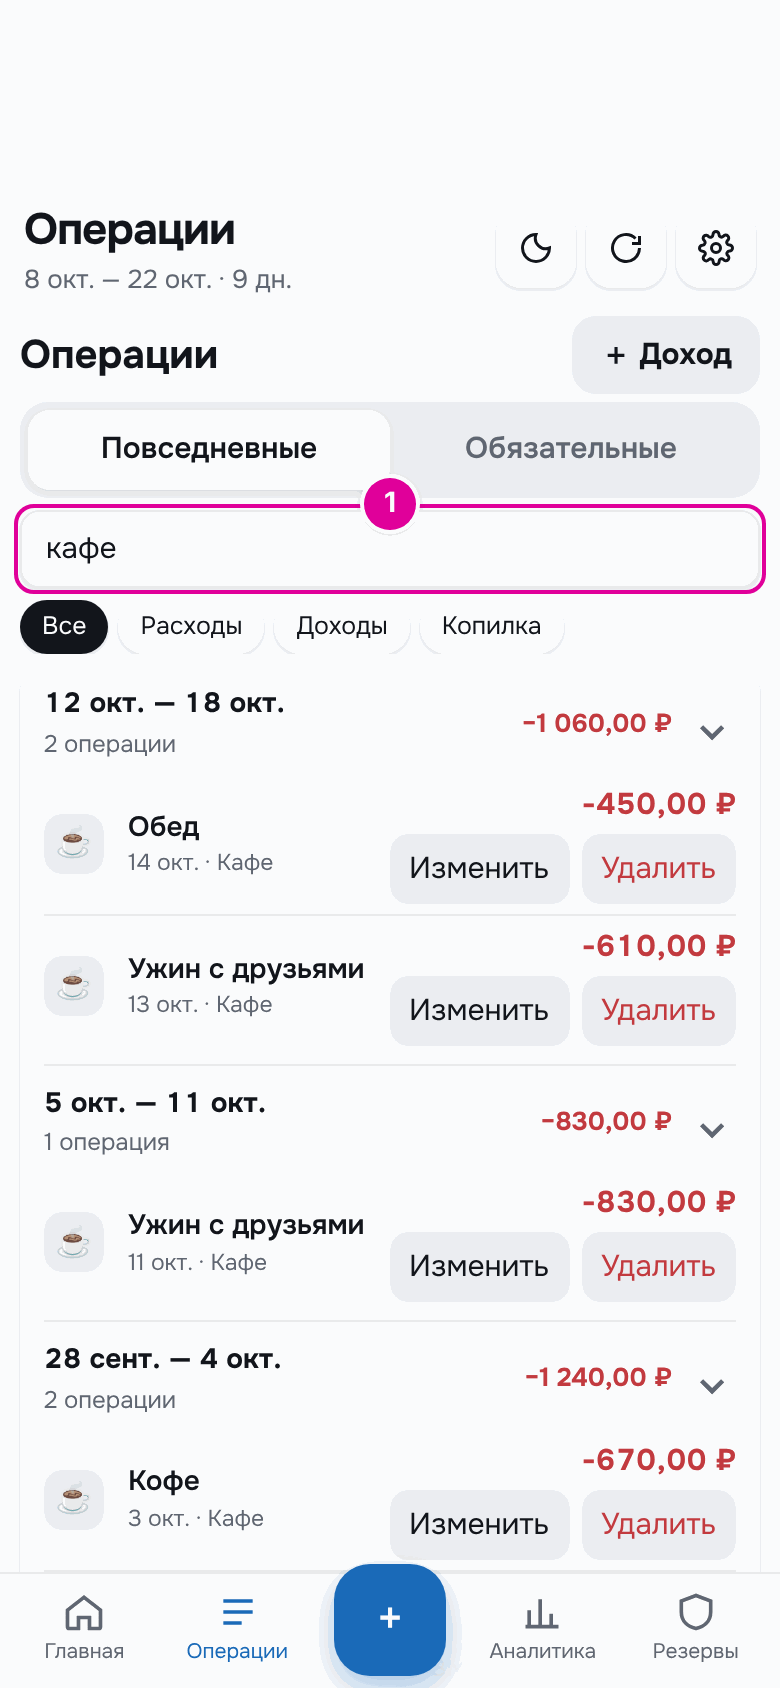
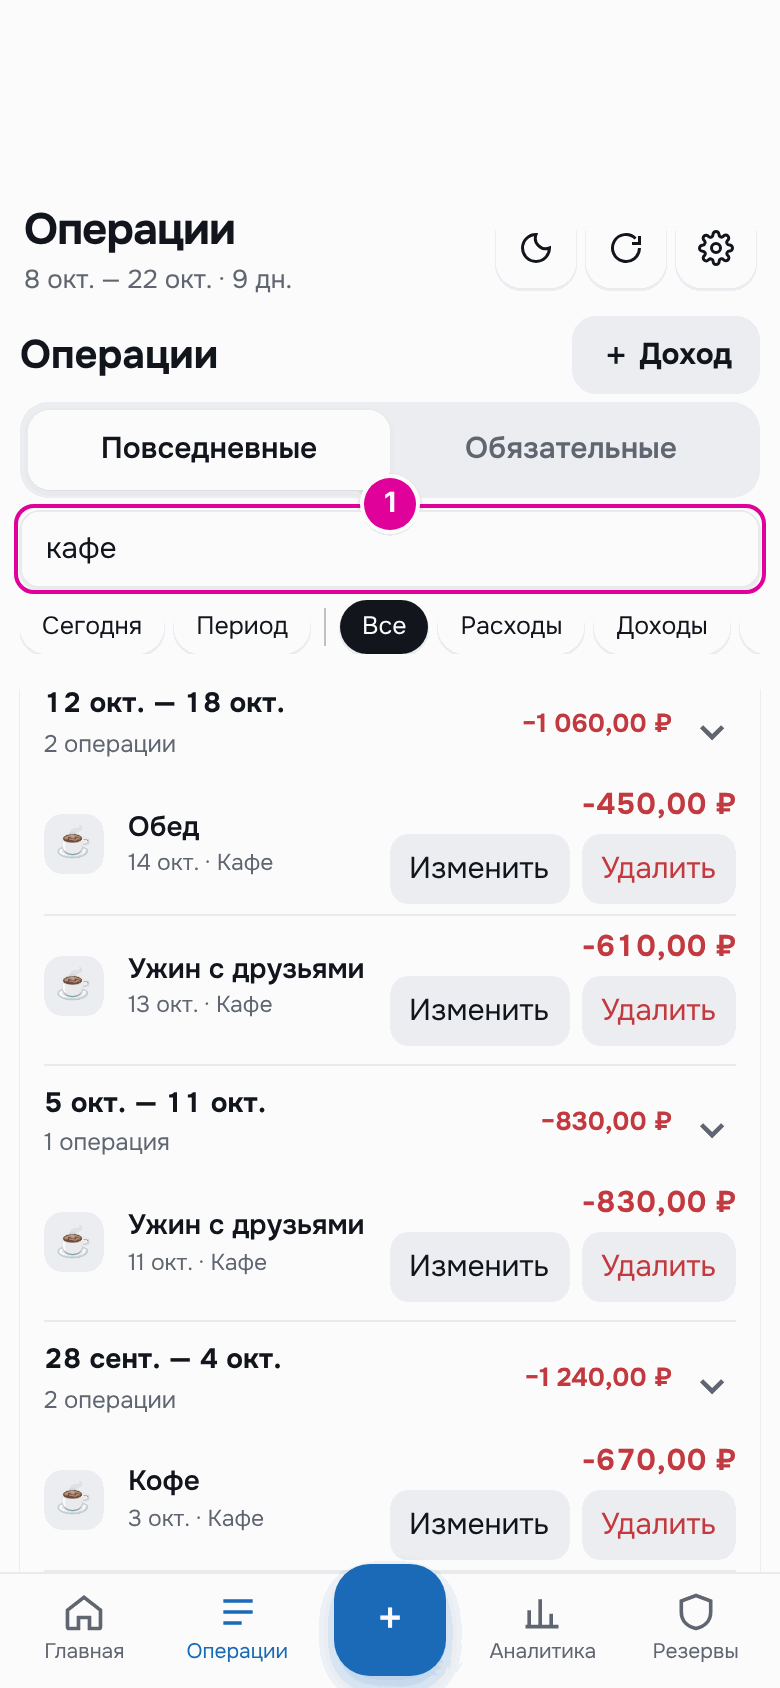
Операции: кнопка «Период» — операции за текущий период
Рядом с «Сегодня» кнопка «Период»: в списке остаются операции периода
из шапки (например, 23 окт. — 6 нояб.) одной группой с числом операций
и суммой трат. Сочетается с «Расходы / Доходы / Копилка» и поиском,
с «Сегодня» взаимоисключается, повторное нажатие выключает. В режиме
«Подработки» кнопки нет.

Список грузит последние 80 операций, а в загруженном периоде их может
быть больше. GET /api/transactions принимает since и добавляет все
операции с этой даты; приложение передаёт начало периода, а при первом
нажатии «Период» догружает список, если он загружен без него.

Инструкция: глава 7 и скриншот 07-operations-period.

Claude-Session: https://claude.ai/code/session_01F2xp3GGSPM2mQvnmC4kdYY

diff --git a/app/static/app.js b/app/static/app.js
@@ -65,11 +65,16 @@ function shiftISODate(iso, days) { return window.budgetDate.shift(iso, days); }
 
 let loadVersion = 0;
 
+// The operations list holds the latest operations and, once the card period
+// is known from an earlier load, every operation since its start: «Период».
+let transactionsSince = null;
+
 async function loadAll() {
   const version = ++loadVersion;
+  const since = state.dashboard?.period?.start || null;
   try {
     const [bootstrap, payroll, vacations, dashboard, transactions, plan, cashflowSettings, cashflow, piggy, irregular, accounts] = await Promise.all([
-      api("/api/bootstrap"), api("/api/payroll-settings"), api("/api/vacations"), api("/api/dashboard"), api("/api/transactions"), api("/api/plan"), api("/api/cashflow-settings"), api("/api/cashflow"),
+      api("/api/bootstrap"), api("/api/payroll-settings"), api("/api/vacations"), api("/api/dashboard"), api(since ? `/api/transactions?since=${since}` : "/api/transactions"), api("/api/plan"), api("/api/cashflow-settings"), api("/api/cashflow"),
       api("/api/piggy-bank").catch(() => ({ movements: [] })),
       api("/api/irregular").catch(() => null),
       api("/api/accounts").catch(() => null)
@@ -77,6 +82,7 @@ async function loadAll() {
     if (version !== loadVersion) return;
     window.budgetDate.configure(bootstrap.budget_timezone);
     state = { bootstrap, payroll, vacations, dashboard, transactions, plan, cashflowSettings, cashflow, piggy, irregular, accounts };
+    transactionsSince = since;
     window.accountsUi?.render(state);
     render();
     window.applyCashflowSettings?.(cashflowSettings);
@@ -215,8 +221,9 @@ function renderPiggyTransferRow(m) {
 // weekly totals) only holds day-to-day spending, income and piggy transfers.
 let transactionView = "daily";
 let transactionFilter = "all";
-// «Сегодня» combines with the type chips: «Сегодня» + «Расходы» is today's spending.
-let transactionTodayOnly = false;
+// «Сегодня» and «Период» (the card period in the header) combine with the
+// type chips: «Сегодня» + «Расходы» is today's spending.
+let transactionRange = "all";
 const TRANSACTION_FILTERS = {
   all: () => true,
   expense: t => !t.piggy && t.type === "expense",
@@ -239,21 +246,25 @@ function renderTransactions() {
   const el = $("transactionsList");
   const query = String($("txSearch")?.value || "").trim().toLowerCase();
   const all = [...state.transactions, ...cardPiggyTransfers()].filter(inTransactionView);
-  const today = transactionView !== "bills" && transactionTodayOnly ? todayISO() : null;
-  const items = all.filter(t => (!today || t.tx_date === today) && transactionMatches(t, query))
+  const daily = transactionView !== "bills";
+  const today = daily && transactionRange === "today" ? todayISO() : null;
+  const period = daily && transactionRange === "period" && !isIrregular() ? state.dashboard?.period : null;
+  const inRange = t => today ? t.tx_date === today : !period || (t.tx_date >= period.start && t.tx_date <= period.end);
+  const items = all.filter(t => inRange(t) && transactionMatches(t, query))
     .sort((a, b) => b.tx_date.localeCompare(a.tx_date) || String(b.created_at || "").localeCompare(String(a.created_at || "")));
   if (!items.length) {
     const message = !all.length
       ? (transactionView === "bills" ? "Оплаченных обязательных платежей пока нет." : "Пока нет операций.")
-      : today && !query && transactionFilter === "all" ? "Сегодня операций пока нет." : "Ничего не найдено.";
+      : query || transactionFilter !== "all" ? "Ничего не найдено."
+        : today ? "Сегодня операций пока нет." : period ? "В этом периоде операций пока нет." : "Ничего не найдено.";
     el.innerHTML = `<div class="empty">${message}</div>`;
     return;
   }
 
-  // With «Сегодня» on, the one group is today instead of its week.
+  // With «Сегодня» or «Период» on, the one group is today or the period instead of weeks.
   const weeks = new Map();
   items.forEach(t => {
-    const weekStart = today ? "today" : transactionWeekStart(t.tx_date);
+    const weekStart = today ? "today" : period ? "period" : transactionWeekStart(t.tx_date);
     if (!weeks.has(weekStart)) weeks.set(weekStart, []);
     weeks.get(weekStart).push(t);
   });
@@ -270,7 +281,7 @@ function renderTransactions() {
         : `${transactions.length} операций`;
       return `<section class="transaction-week ${collapsed ? "collapsed" : ""}">
         <button class="transaction-week-toggle" type="button" onclick="toggleTransactionWeek('${weekStart}')" aria-expanded="${!collapsed}">
-          <span><strong>${today ? `Сегодня, ${fmtDate(today)}` : transactionWeekTitle(weekStart)}</strong><small>${countLabel}</small></span>
+          <span><strong>${today ? `Сегодня, ${fmtDate(today)}` : period ? `${fmtDate(period.start)} — ${fmtDate(period.end)}` : transactionWeekTitle(weekStart)}</strong><small>${countLabel}</small></span>
           <span class="transaction-week-summary">${expenseTotal ? `−${money(expenseTotal)}` : ""}<i aria-hidden="true">⌄</i></span>
         </button>
         <div class="transaction-week-rows">${transactions.map(t => t.piggy ? renderPiggyTransferRow(t) : renderTransactionRow(t)).join("")}</div>
@@ -685,11 +696,18 @@ document.querySelectorAll("[data-txf]").forEach(btn => btn.addEventListener("cli
   document.querySelectorAll("[data-txf]").forEach(b => b.setAttribute("aria-pressed", String(b === btn)));
   renderTransactions();
 }));
-$("txToday")?.addEventListener("click", () => {
-  transactionTodayOnly = !transactionTodayOnly;
-  $("txToday").setAttribute("aria-pressed", String(transactionTodayOnly));
+// «Сегодня» and «Период» exclude each other; a second tap turns the chip off.
+function toggleTransactionRange(range) {
+  transactionRange = transactionRange === range ? "all" : range;
+  $("txToday")?.setAttribute("aria-pressed", String(transactionRange === "today"));
+  $("txPeriod")?.setAttribute("aria-pressed", String(transactionRange === "period"));
   renderTransactions();
-});
+  // The first load did not know the period yet and may hold only its latest operations.
+  const start = state.dashboard?.period?.start;
+  if (transactionRange === "period" && start && !(transactionsSince && transactionsSince <= start)) loadAll();
+}
+$("txToday")?.addEventListener("click", () => toggleTransactionRange("today"));
+$("txPeriod")?.addEventListener("click", () => toggleTransactionRange("period"));
 document.querySelectorAll("[data-txview]").forEach(btn => btn.addEventListener("click", () => {
   transactionView = btn.dataset.txview;
   document.querySelectorAll("[data-txview]").forEach(b => b.setAttribute("aria-selected", String(b === btn)));

diff --git a/app/static/index.html b/app/static/index.html
@@ -91,6 +91,7 @@
           <input id="txSearch" type="search" placeholder="Поиск по операциям" autocomplete="off" aria-label="Поиск по операциям" />
           <div class="chips" id="txChips" role="group" aria-label="Тип операций">
             <button class="chip" type="button" id="txToday" aria-pressed="false">Сегодня</button>
+            <button class="chip payroll-only" type="button" id="txPeriod" aria-pressed="false">Период</button>
             <span class="chips-sep" aria-hidden="true"></span>
             <button class="chip" type="button" data-txf="all" aria-pressed="true">Все</button>
             <button class="chip" type="button" data-txf="expense" aria-pressed="false">Расходы</button>
@@ -697,7 +698,7 @@
   <div id="toast" class="toast" role="status" aria-live="polite"></div>
   <script src="/static/budget-date.js?v=20261020-daily-cap"></script>
   <script src="/static/money-input.js?v=20261020-daily-cap"></script>
-  <script src="/static/app.js?v=20261026-buffer-move"></script>
+  <script src="/static/app.js?v=20261026-tx-period"></script>
   <script src="/static/cashflow-ui.js?v=20261026-buffer-move"></script>
   <script src="/static/buffer-ui.js?v=20261026-buffer-move"></script>
   <script src="/static/design-ui.js?v=20261011-canvas-design"></script>

diff --git a/app/main.py b/app/main.py
@@ -278,8 +278,19 @@ def dashboard(user: TelegramUser = Depends(current_user)) -> dict:
 
 
 @app.get("/api/transactions")
-def transactions(limit: int = 80, user: TelegramUser = Depends(current_user)) -> list[dict]:
+def transactions(
+    limit: int = 80, since: date | None = None, user: TelegramUser = Depends(current_user)
+) -> list[dict]:
+    """The latest ``limit`` operations.  ``since`` adds every operation from
+    that day on, however many: «Период» in the list shows the whole card period."""
     uid = user_ready(user)
+    limit = min(max(limit, 1), 300)
+    if since is None:
+        where, params = "ORDER BY tx_date DESC,id DESC LIMIT ?", (limit,)
+    else:
+        where = ("AND (t.tx_date>=? OR t.id IN (SELECT id FROM transactions WHERE user_id=? "
+                 "ORDER BY tx_date DESC,id DESC LIMIT ?)) ORDER BY tx_date DESC,id DESC")
+        params = (since.isoformat(), uid, limit)
     return rows(
         "SELECT t.*, c.title AS category_title, c.emoji AS category_emoji, b.title AS bill_title, "
         "p.amount AS remainder_amount, a.title AS account_title, a.emoji AS account_emoji, "
@@ -289,8 +300,8 @@ def transactions(limit: int = 80, user: TelegramUser = Depends(current_user)) ->
         "LEFT JOIN bill_rules b ON b.id=t.bill_rule_id AND b.user_id=t.user_id "
         "LEFT JOIN piggy_bank_movements p ON p.user_id=t.user_id AND p.bill_payment_id=t.id "
         "LEFT JOIN accounts a ON a.id=t.account_id AND a.user_id=t.user_id "
-        "WHERE t.user_id=? ORDER BY tx_date DESC,id DESC LIMIT ?",
-        (uid, min(max(limit, 1), 300)),
+        f"WHERE t.user_id=? {where}",
+        (uid, *params),
     )
 
 

diff --git a/tests/test_audit_regressions.py b/tests/test_audit_regressions.py
@@ -985,3 +985,21 @@ def test_startup_repairs_plan_versions_with_a_deleted_category_and_keeps_a_copy(
     assert any(f'"category_id": {home}' in snapshot for snapshot in snapshots)
     init_db()
     assert len(list((tmp_path / 'backups').glob('*/1.sqlite3'))) == 1
+
+
+def test_transactions_since_adds_every_operation_of_the_period(client):
+    for day in ("2026-09-02", "2026-09-08", "2026-09-10", "2026-09-12", "2026-09-14"):
+        response = client.post("/api/transactions", json={
+            "type": "income", "amount": 100, "tx_date": day, "category_id": None, "note": day,
+        })
+        assert response.status_code == 200
+    dates = lambda url: [row["tx_date"] for row in client.get(url).json()]
+    # The list alone stops at the limit.
+    assert dates("/api/transactions?limit=2") == ["2026-09-14", "2026-09-12"]
+    # «Период» needs the whole card period, however many operations it has.
+    assert dates("/api/transactions?limit=2&since=2026-09-08") == [
+        "2026-09-14", "2026-09-12", "2026-09-10", "2026-09-08"]
+    # The latest operations stay even when they are older than ``since``.
+    assert dates("/api/transactions?limit=5&since=2026-09-13") == [
+        "2026-09-14", "2026-09-12", "2026-09-10", "2026-09-08", "2026-09-02"]
+    assert client.get("/api/transactions?since=вчера").status_code == 422

diff --git a/scripts/make_guide_screenshots.py b/scripts/make_guide_screenshots.py
@@ -1134,6 +1134,13 @@ def ch07(app: App, sh: Shooter, texts: dict) -> None:
     sh.page.fill("#txSearch", "")
     sh.page.locator("#txSearch").dispatch_event("input")
     sh.page.wait_for_timeout(200)
+    sh.page.click("#txPeriod")
+    sh.settle()
+    sh.shot("07-operations-period.png", [
+        M(1, "#txPeriod", "al", pad=3), M(2, "#transactionsList .transaction-week-toggle", pad=2),
+    ], facts={"Период": "#transactionsList .transaction-week-toggle"})
+    sh.page.click("#txPeriod")
+    sh.page.wait_for_timeout(200)
     sh.page.locator("#transactionsList .list-row", has_text="Обед").first.locator(".actions .tiny:not(.danger)").click()
     sh.page.fill("#expenseAmount", "520")
     sh.shot("07-expense-edit.png", [M(1, label(d, "Сумма"), pad=3), M(2, "#saveExpenseBtn", pad=3)])

diff --git a/docs/guide/07-expenses.md b/docs/guide/07-expenses.md
@@ -47,16 +47,22 @@
 
 Все записи — в разделе «Операции» на нижней панели.
 
-![Раздел «Операции». Отмечены вкладки «Повседневные» и «Обязательные», поле «Поиск по операциям», кнопки «Все», «Расходы», «Доходы», «Копилка», заголовок недели «12 окт. — 18 окт.», кнопки «Изменить» и «Удалить»](images/07-operations-list.png)
+![Раздел «Операции». Отмечены вкладки «Повседневные» и «Обязательные», поле «Поиск по операциям», кнопки «Сегодня», «Период», «Все», «Расходы», «Доходы», «Копилка», заголовок недели «12 окт. — 18 окт.», кнопки «Изменить» и «Удалить»](images/07-operations-list.png)
 
 *Номера совпадают с пунктами.*
 
 1. Вкладки «Повседневные» и «Обязательные». На второй — оплаченные обязательные платежи.
 2. Поле «Поиск по операциям». Ищет по комментарию, категории и названию платежа.
-3. Кнопки «Все», «Расходы», «Доходы», «Копилка» оставляют в списке только операции одного вида.
+3. Кнопки «Все», «Расходы», «Доходы», «Копилка» оставляют в списке только операции одного вида. Про «Сегодня» и «Период» — ниже.
 4. Операции сгруппированы по неделям. В заголовке недели — сколько операций и сколько потрачено. Нажмите заголовок, чтобы свернуть или развернуть неделю.
 5. «Изменить» открывает трату в том же окне, что и при записи. Поменяйте сумму, категорию, дату или комментарий и нажмите «Записать расход».
 6. «Удалить» удаляет запись. Приложение переспросит: «Удалить операцию?».
+
+Кнопки «Сегодня» и «Период» в начале того же ряда оставляют операции за сегодня или за текущий период — тот, что написан под заголовком экрана. Вместо недель тогда одна группа: сколько в ней операций и сколько потрачено. Их можно сочетать с кнопками вида и поиском: «Период» и «Расходы» — все траты периода. Повторное нажатие выключает кнопку. В режиме «Подработки» кнопки «Период» нет: там нет периодов от выплаты до выплаты.
+
+![Операции за период: нажата кнопка «Период», в списке одна группа «8 окт. — 22 окт.» со всеми операциями периода](images/07-operations-period.png)
+
+*1 — кнопка «Период». 2 — группа за период: сколько операций и сколько потрачено.*
 
 ![Поиск по слову «кафе»: в списке остались только траты категории «Кафе»](images/07-operations-search.png)
 
